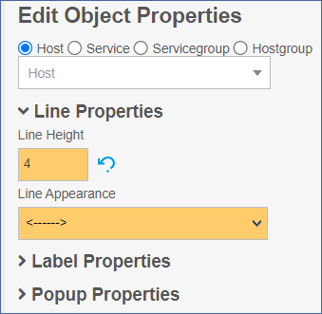
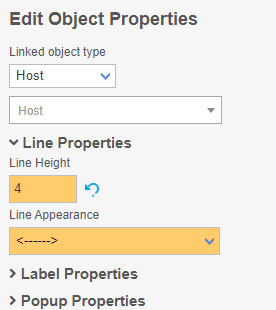
Update Map 22.10

diff --git a/monitoring_versioned_docs/version-22.10/i-vertix-maps/edit-maps.md b/monitoring_versioned_docs/version-22.10/i-vertix-maps/edit-maps.md
@@ -27,8 +27,12 @@ The **object** has the following **properties**:
 
 ![Image](../assets/maps/edit_properties.png)
 
-* **Object type**: Host, Service, Servicegroup or Hostgroup
+* **Linked Object type**: Host, Service, Servicegroup, Hostgroup or Map
 * **Icon Properties**: select **icon size** and the **icon pack** that is to be used
+* **Service Status on Host Icon**: The host icon displays the most critical status of all services assigned to a host.
+
+![Image](../assets/maps/service_status_on_host_icon.gif)
+
 * **Label Properties**: if the label is enabled, it is possible to decide what information to display, its position relative to the object, size and color.
 * **Popup Properties**: to select/change popup messages settings and configure which information they should include
 
@@ -40,7 +44,7 @@ The object has the following properties:
 
 ![Image](../assets/maps/edit_line_properties.png)
 
-* **Object type**: Host, Service, Servicegroup or Hostgroup
+* **Linked Object type**: Host, Service, Servicegroup or Hostgroup.
 * **Line Properties**: you can select the **thickness** of the line and the line **appearance** 
 
 * **Performance Data Interpreter**: it can be used to select which performance metrics have to be displayed and the position of their values.
@@ -76,4 +80,215 @@ If in **Gadget Properties > Gadget** Type you select Map, instead of a service, 
 
 **Popup Properties**: to select/change popup messages settings and configure which information they should include
 
+## Map in Map feature
+The "Map in Map" feature allows user to embed smaller maps within larger maps to provide a hierarchical view of infrastructure. Maps are created for each segment or location of the network to represent specific areas of the infrastructure, such as different floors of a building or separate departments within an organization.
+
+:::note
+
+This functionality can be used on the Graphic Map or the Geo Map
+
+:::
+
+### How to use Map in Map
+
+Create the Graphical or Geo Map ([Maps configuration](managing-maps.md)).
+
+There are available two options: **Create New Marker** or **Create a new Gadget**.
+
+### Create New Marker
+
+**Create New Marker**: select "Map" on **Linked Object Type** and the map you want to show. The icon placed on the map will be smaller and stylised. In the Geo Map it will only be visible by zooming into the position of the inserted object.
+
+**Select the icon size**: tiny, small, middle, big
+
+**Save** the Map
+
+**Icon for Graphical Map** (ok, critical, warning, unknown, pending status):
+
+![Image](../assets/maps/ok_map.png) ![Image](../assets/maps/critical_map.png) ![Image](../assets/maps/warning_map.png) ![Image](../assets/maps/unknown_map.png) ![Image](../assets/maps/pending_map.png)
+
+**Icon for Geo Map** (ok, critical, warning, unknown, pending status):
+
+![Image](../assets/maps/ok_geo.png) ![Image](../assets/maps/critical_geo.png) ![Image](../assets/maps/warning_geo.png) ![Image](../assets/maps/unknown_geo.png) ![Image](../assets/maps/pending_geo.png) 
+
+![Image](../assets/maps/create_marker_map.gif)
+
+### Create a new Gadget
+
+**Create a new Gadget**: select "Map" on **Gadget Type** and the map you want to show. The icon shown will be larger than the one created by marker. 
+
+**Select the Gadget size**: small, medium, big
+
+**Save** the Map
+
+![Image](../assets/maps/map_gadget.png)
+
+## Set acknowledgement
+It is possible to acknowledge and stop the notification of hosts with problems directly from the map.
+
+![Image](../assets/maps/ack_window_click.png)
+
+Right click and select acknowlegde.
+
+![Image](../assets/maps/ack_window.png)
+
+## Set the downtime
+It is possible to set downtime of hosts and related services directly from the map.
+
+![Image](../assets/maps/set_down.png)
+
+Press the right with button with the mouse and select downtime.
+
+![Image](../assets/maps/set_down1.png)
+
+Enter the period during which the downtime will be active.
+
+## Full list of map icon
+Host displays **UP** status
+
+![Image](../assets/maps/ok.png) 
+
+Host displays **WARNING** status
+
+![Image](../assets/maps/warning.png)
+
+Host displays **DOWN** status
+
+![Image](../assets/maps/critical.png)
+
+Host displays **PENDING** status
+
+![Image](../assets/maps/pending.png)
+
+Host displays **UNKNOWN** status
+
+![Image](../assets/maps/unknown.png)
+
+Service displays **OK** status
+
+![Image](../assets/maps/ok_round.png)
+
+Host displays **WARNING** status
+
+![Image](../assets/maps/warning_round.png)
+
+Service displays **CRITICAL** status
+
+![Image](../assets/maps/critical_round.png)
+
+Service displays **PENDING** status
+
+![Image](../assets/maps/pending_round.png)
+
+Service displays **UNKNOWN** status
+
+![Image](../assets/maps/unknown_round.png)
+
+All hosts in the hostgroup are in **UP** status
+
+![Image](../assets/maps/ok_hostgroup.png)
+
+One or more hosts in the hostgroup are in **WARNING** status
+
+![Image](../assets/maps/warning_hostgroup.png)
+
+One or more hosts in the hostgroup are in **DOWN** status
+
+![Image](../assets/maps/critical_hostgroup.png)
+
+One or more hosts in the hostgroup are in **PENDING** status
+
+![Image](../assets/maps/pending_hostgroup.png)
+
+One or more hosts in the hostgroup are in **UNKNOWN** status
+
+![Image](../assets/maps/unknown_hostgroup.png)
+
+All services in the servicegroup are in **UP** status
+
+![Image](../assets/maps/ok_servicegroup.png)
+
+One or more services in the servicegroup are in **WARNING** status
+
+![Image](../assets/maps/warning_servicegroup.png)
+
+One or more services in the servicegroup are in **CRITICAL** status
+
+![Image](../assets/maps/critical_servicegroup.png)
+
+One or more services in the servicegroup are in **PENDING** status
+
+![Image](../assets/maps/pending_servicegroup.png)
+
+One or more services in the servicegroup are in **UNKNOWN** status
+
+![Image](../assets/maps/unknown_servicegroup.png)
+
+The host is displaying **UP** status, but one or more services are displaying **WARNING** status.
+
+![Image](../assets/maps/ok_warning.png)
+
+The host is displaying **UP** status, but one or more services are displaying **CRITICAL** status.
+
+![Image](../assets/maps/ok_critical.png)
+
+The host is displaying **UP** status, but one or more services are displaying **UNKNOWN** status.
+
+![Image](../assets/maps/ok_unknown.png)
+
+One or more services are in  status **ACKNOWLEDGE**
+
+![Image](../assets/maps/ok_acknowledge.png)
+
+One or more services are in  status **DOWNTIME**
+
+![Image](../assets/maps/ok_downtime.png)
+
+The host is status **ACKNOWLEDGE**
+
+![Image](../assets/maps/acknowledge.png)
+
+The host is status **DOWNTIME**
+
+![Image](../assets/maps/downtime.png)
+
+All hosts are in **UP** status and services are in **OK** status
+
+![Image](../assets/maps/ok_geo.png)
+
+One or more hosts/services are in **WARNING** status
+
+![Image](../assets/maps/warning_geo.png)
+
+One or more hosts are in **DOWN** status and/or one or more service are in **CRITICAL** status
+
+![Image](../assets/maps/critical_geo.png)
+
+One or more hosts/services are in **PENDING** status
+
+![Image](../assets/maps/pending_geo.png) 
+
+One or more hosts/services are in **UNKNOWN** status
+
+![Image](../assets/maps/unknown_geo.png)
+
+All hosts are in **UP** status and services are in **OK** status
+
+![Image](../assets/maps/ok_map.png)
+
+One or more hosts/services are in **WARNING** status
+
+![Image](../assets/maps/warning_map.png) 
+
+One or more hosts are in **DOWN** status and/or one or more service are in **CRITICAL** status
+
+![Image](../assets/maps/critical_map.png) 
+
+One or more hosts/services are in **PENDING** status
+
+![Image](../assets/maps/pending_map.png)
+
+One or more hosts/services are in **UNKNOWN** status
+
+![Image](../assets/maps/unknown_map.png) 
 

diff --git a/monitoring_versioned_docs/version-22.10/i-vertix-maps/visualize-maps.md b/monitoring_versioned_docs/version-22.10/i-vertix-maps/visualize-maps.md
@@ -9,8 +9,6 @@ From this page maps can be viewed or edited.
 
 Search boxes are available, to filter/search for maps based on their names or Access groups.
 
-![Image](../assets/maps/search_map.png)
-
 On the top left corner of the map preview, a **color-coded square icon** represents the status of the hosts/services that are included in the map: if there is at least one Host/Service in warning or critical status, the icon will take on the color of the one with the **highest severity**. If all Hosts/Services included in the map are UP, then the little square icon will be green.
 
 To include the map in **Favorites** category, click on the **star** at the top right corner of the map preview box.
